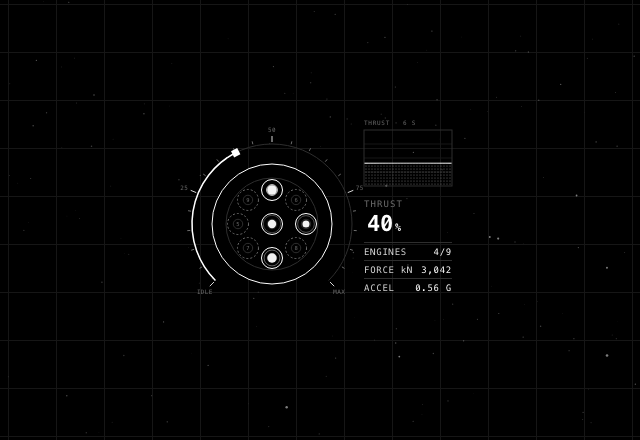
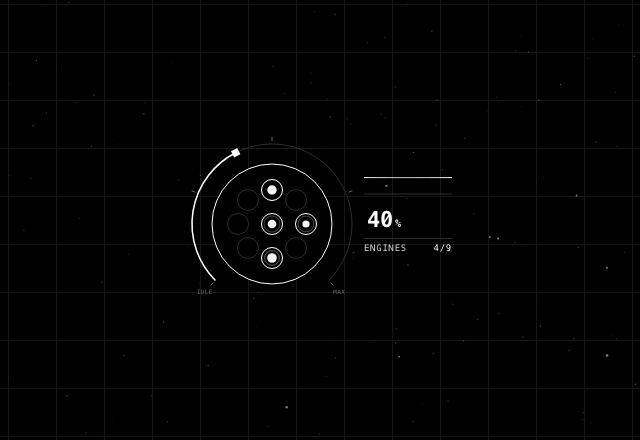
Week 04 thrust: calmer, fewer lines and readouts
Claude-Session: https://claude.ai/code/session_013PaiRT9mB3em9jBr45ZJeZ

diff --git a/week-04/week-04-aero-thrust.html b/week-04/week-04-aero-thrust.html
@@ -19,10 +19,10 @@
   .scene svg { position: absolute; inset: 0; width: 100%; height: 100%; overflow: visible; }
   .hull { fill: var(--space); stroke: var(--text); stroke-width: 1; }
   .hull-in { fill: none; stroke: var(--line); stroke-width: 1; }
-  .nozzle .bell { fill: var(--space); stroke: var(--dim); stroke-width: 1; stroke-dasharray: 2 2; transition: stroke .2s; }
+  .nozzle .bell { fill: var(--space); stroke: var(--line); stroke-width: 1; transition: stroke .2s; }
   .nozzle .throat { fill: none; stroke: var(--line); stroke-width: 1; }
   .nozzle .core { fill: var(--text); opacity: 0; }
-  .nozzle .wave { fill: none; stroke: var(--text); stroke-width: 1; opacity: 0; }
+  .nozzle .wave { fill: none; stroke: var(--text); stroke-width: .75; opacity: 0; }
   .nozzle.lit .bell { stroke: var(--text); stroke-dasharray: none; }
   .nozzle .n { font: 500 5.5px var(--mono); fill: var(--dim); text-anchor: middle; dominant-baseline: central; }
   .nozzle.lit .n { opacity: 0; }
@@ -45,7 +45,7 @@
   .trace .frame { fill: none; stroke: var(--line); stroke-width: 1; }
   .trace .grid { stroke: var(--grid); stroke-width: 1; }
   .trace .line { fill: none; stroke: var(--text); stroke-width: 1; }
-  .trace .area { fill: url(#tr-dots); opacity: .45; }
+  .trace .area { fill: none; }
   .read { position: absolute; left: 176px; right: 0; pointer-events: none; font: 500 var(--tag-size)/var(--tag-line) var(--mono); letter-spacing: .08em; color: var(--hud); font-variant-numeric: tabular-nums; }
   .read .big { display: inline-block; font: 600 22px/1 var(--mono); color: var(--text); letter-spacing: -.01em; margin: 2px 0 6px; }
   .read .big small { font-size: 10px; margin-left: 2px; }
@@ -60,40 +60,37 @@
     <div class="sky"></div>
     <div class="scene" role="slider" tabindex="0" aria-label="Thrust">
       <svg class="view"></svg>
-      <span class="cap">THRUST · 6 S</span>
-      <div class="read" style="top:78px"><span class="tag">THRUST</span><br><span class="big chip"></span>
+      <div class="read" style="top:86px"><span class="big chip"></span>
         <div class="row"><span>ENGINES</span><b class="v-eng"></b></div>
-        <div class="row"><span>FORCE kN</span><b class="v-kn"></b></div>
-        <div class="row"><span>ACCEL</span><b class="v-g"></b></div>
       </div>
     </div>
   </main>
 
   <section class="spec" aria-labelledby="spec-title">
     <h2 id="spec-title">Spec</h2>
-    <p>Read from the CSS this page runs on. Continuous, 0 to 100% thrust, to the percent. The same throttle as before, seen from a different point of view: behind the ship, looking at the base of the booster. The throttle is a ring around its nine engines; turn it clockwise and the engines light one by one, the centre first and then round the outside, each the moment its share of the thrust is reached. The thrust reads big on the right, always on screen, under a six-second trace of how it has moved.</p>
+    <p>Read from the CSS this page runs on. Continuous, 0 to 100% thrust, to the percent. The same throttle as before, seen from a different point of view: behind the ship, looking at the base of the booster. The throttle is a ring around its nine engines; turn it clockwise and the engines light one by one, the centre first and then round the outside, each the moment its share of the thrust is reached. The thrust reads big on the right, always on screen, under a six-second trace of how it has moved and over the count of engines lit.</p>
 
     <h3>Ring</h3>
     <table>
       <tr><td>Scene</td><td data-var="--scene-w,--scene-h" data-join=" × " data-after=", the ring the hit area"></td></tr>
       <tr><td>Ring</td><td data-var="--ring-r" data-after=" radius, 270° from the lower left round the top to the lower right; 1px, the part turned up 1.5px white"></td></tr>
-      <tr><td>Ticks</td><td>Every 5%, 3px; every 25%, 6px and labelled IDLE, 25, 50, 75, MAX</td></tr>
+      <tr><td>Ticks</td><td>Every 25%, 4px; only IDLE and MAX labelled</td></tr>
       <tr><td>Handle</td><td data-var="--handle" data-after=" white square on the ring"></td></tr>
       <tr><td>Drag</td><td>Round the centre, relative: the handle turns by the angle your finger turns, so it never jumps</td></tr>
     </table>
 
     <h3>Engines</h3>
     <table>
-      <tr><td>Booster base</td><td data-var="--hull-r" data-after=" radius, 1px white, an inner ring at 46px"></td></tr>
-      <tr><td>Nozzles</td><td data-var="--nozzle-r" data-after=" radius: one in the centre, eight round it at 34px, numbered until lit"></td></tr>
-      <tr><td>Lighting</td><td>Each engine carries a ninth of the thrust. Unlit: dashed grey; lit: solid white, a white core sized to its own throttle, and a ring breathing out from it</td></tr>
+      <tr><td>Booster base</td><td data-var="--hull-r" data-after=" radius, 1px white"></td></tr>
+      <tr><td>Nozzles</td><td data-var="--nozzle-r" data-after=" radius: one in the centre, eight round it at 34px"></td></tr>
+      <tr><td>Lighting</td><td>Each engine carries a ninth of the thrust. Unlit: a dark outline; lit: white, a white core sized to its own throttle, and a fine ring breathing out from it</td></tr>
     </table>
 
     <h3>Readouts</h3>
     <table>
-      <tr><td>Trace</td><td>The last six seconds of thrust, 88 × 56, a dotted area under a 1px line</td></tr>
+      <tr><td>Trace</td><td>The last six seconds of thrust, 88 × 40, a 1px line over a baseline</td></tr>
       <tr><td>Thrust</td><td>Mono 600 22px; “%” in 10px</td></tr>
-      <tr><td>Rows</td><td data-var="--tag-size,--tag-line" data-after=" mono 500 between 1px rules: engines lit, force in kN, acceleration in g"></td></tr>
+      <tr><td>Engines lit</td><td data-var="--tag-size,--tag-line" data-after=" mono 500 under a 1px rule"></td></tr>
     </table>
 
     <h3>Colour</h3>
@@ -132,24 +129,22 @@
 
   // the base of the booster and its nine engines: the centre one first, then the outer eight, top going clockwise
   el('circle', { class: 'hull', cx: C.x, cy: C.y, r: HR });
-  el('circle', { class: 'hull-in', cx: C.x, cy: C.y, r: HR - 14 });
   const ENG = [{ x: C.x, y: C.y }].concat(Array.from({ length: 8 }, (_, k) => at(-90 + k * 45, 34)));
   const order = [0, 1, 5, 3, 7, 2, 6, 4, 8];                  // lights opposite pairs, so the push stays balanced
   const engines = ENG.map((p, i) => {
     const g = el('g', { class: 'nozzle', transform: `translate(${p.x} ${p.y})` });
-    el('circle', { class: 'bell', r: NR }, g); el('circle', { class: 'throat', r: NR * .45 }, g);
+    el('circle', { class: 'bell', r: NR }, g);
     const wave = el('circle', { class: 'wave', r: NR }, g), core = el('circle', { class: 'core', r: 1 }, g);
-    el('text', { class: 'n' }, g).textContent = order.indexOf(i) + 1;
     return { g, wave, core, rank: order.indexOf(i), ph: i * .37 };
   });
 
   // the ring
   el('path', { class: 'track', d: arc(A0, A0 + SWEEP, RR) });
   const fill = el('path', { class: 'fill' });
-  for (let v = 0; v <= 100; v += 5) {
-    const a = A0 + SWEEP * v / 100, major = v % 25 === 0, p = at(a, RR + 2), q = at(a, RR + (major ? 8 : 5));
-    el('line', { class: 'tk' + (major ? ' major' : ''), x1: p.x, y1: p.y, x2: q.x, y2: q.y });
-    if (major) { const t = at(a, RR + 15); el('text', { class: 'tl', x: t.x, y: t.y }).textContent = v === 0 ? 'IDLE' : v === 100 ? 'MAX' : v; }
+  for (let v = 0; v <= 100; v += 25) {
+    const a = A0 + SWEEP * v / 100, p = at(a, RR + 3), q = at(a, RR + 7);
+    el('line', { class: 'tk', x1: p.x, y1: p.y, x2: q.x, y2: q.y });
+    if (v === 0 || v === 100) { const t = at(a, RR + 15); el('text', { class: 'tl', x: t.x, y: t.y }).textContent = v ? 'MAX' : 'IDLE'; }
   }
   const ghost = el('g', { class: 'ghost' }), gl = el('line', {}, ghost), gt = el('text', {}, ghost);
   const handle = el('g', { class: 'handle' });
@@ -157,11 +152,10 @@
   el('rect', { x: -HS / 2, y: -HS / 2, width: HS, height: HS }, handle);
 
   // the trace
-  const TX = 176, TY = 10, TW = 88, TH = 56;
+  const TX = 176, TY = 34, TW = 88, TH = 40;
   const trace = el('g', { class: 'trace' });
-  [.25, .5, .75].forEach(f => el('line', { class: 'grid', x1: TX, x2: TX + TW, y1: TY + TH * f, y2: TY + TH * f }, trace));
   const area = el('path', { class: 'area' }, trace), line = el('path', { class: 'line' }, trace);
-  el('rect', { class: 'frame', x: TX, y: TY, width: TW, height: TH }, trace);
+  el('line', { class: 'frame', x1: TX, x2: TX + TW, y1: TY + TH, y2: TY + TH }, trace);
   const HIST = Array(90).fill(40);
 
   let v = 40, sv = 40, hv = null;
@@ -174,8 +168,6 @@
     engines.forEach(e => e.g.classList.toggle('lit', e.rank < lit));
     scene.querySelector('.big').innerHTML = `${Math.round(sv)}<small>%</small>`;
     scene.querySelector('.v-eng').textContent = `${lit}/9`;
-    scene.querySelector('.v-kn').textContent = Math.round(f * 7605).toLocaleString('en-US');
-    scene.querySelector('.v-g').textContent = `${(1.4 * f).toFixed(2)} G`;
     scene.setAttribute('aria-valuenow', Math.round(v)); scene.setAttribute('aria-valuetext', `${Math.round(v)} percent thrust, ${lit} of 9 engines lit`);
   }
   // the engines breathe and the trace scrolls on their own clock

diff --git a/week-04/week-04.html b/week-04/week-04.html
@@ -552,11 +552,11 @@
                   </figcaption>
                 </figure>
                 <figure class="proto">
-                  <iframe src="week-04-aero-thrust.html?v=7" title="Thrust, continuous slider: seen from behind the booster, a throttle ring around nine engines that light one by one" loading="lazy"></iframe>
+                  <iframe src="week-04-aero-thrust.html?v=8" title="Thrust, continuous slider: seen from behind the booster, a throttle ring around nine engines that light one by one" loading="lazy"></iframe>
                   <figcaption>
                     <b>Thrust, continuous</b>
                     <span>The same throttle from behind the ship: a ring around the booster’s nine engines. Turn it up and they light one by one, centre first, while a trace records the thrust.</span>
-                    <button type="button" class="viewer-open" data-src="week-04-aero-thrust.html?v=7">View larger</button>
+                    <button type="button" class="viewer-open" data-src="week-04-aero-thrust.html?v=8">View larger</button>
                   </figcaption>
                 </figure>
                 <figure class="proto">
